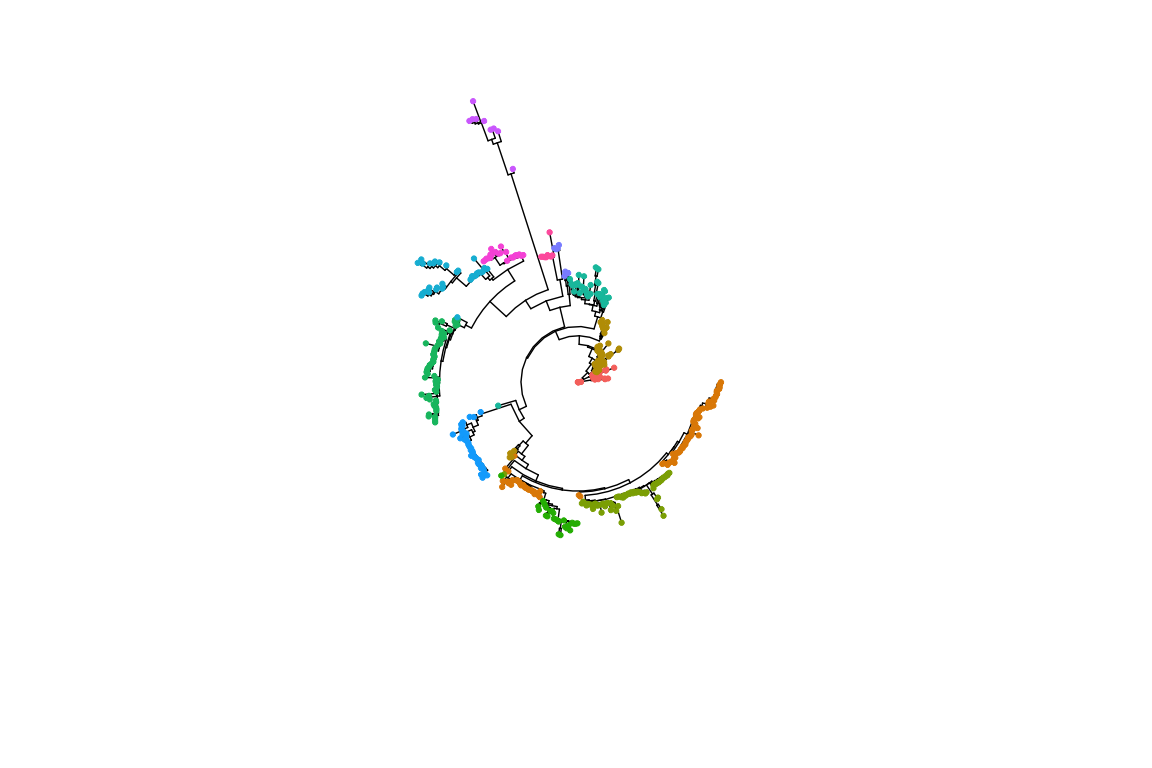
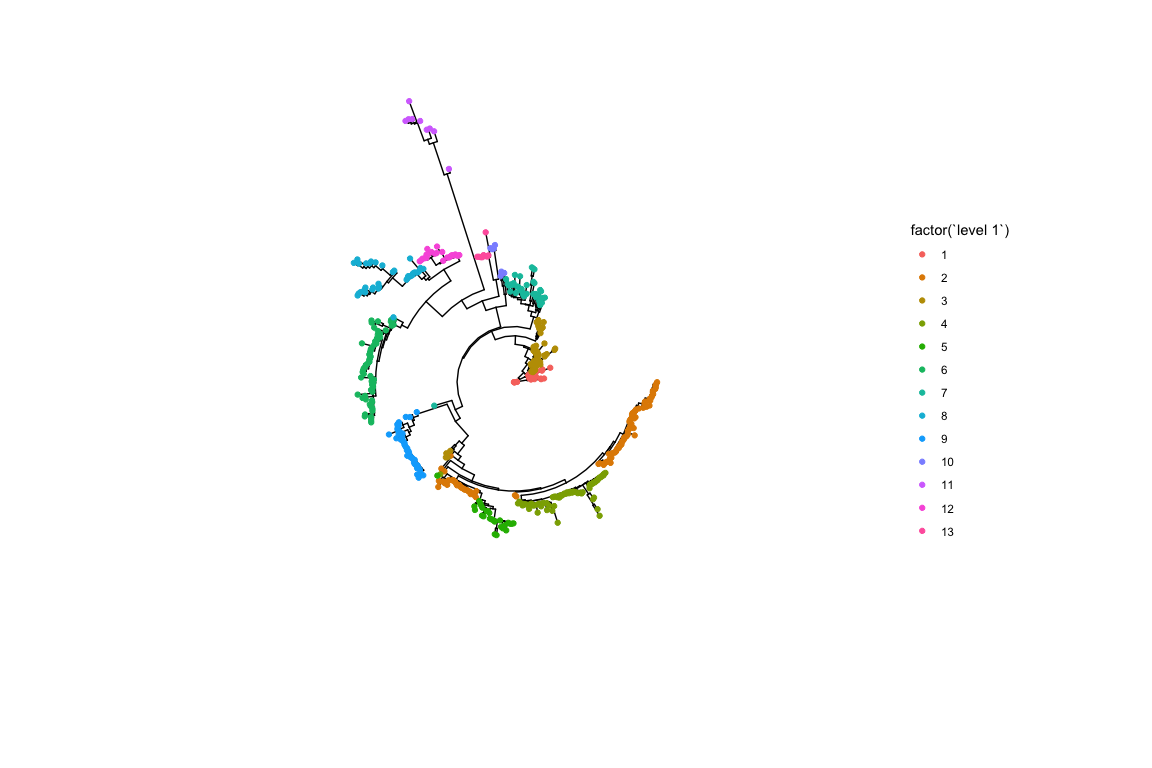
updates to fix issue created by changes to ggtree

diff --git a/README.md b/README.md
@@ -5,6 +5,8 @@
 rhierbaps
 =========
 
+We have recently developed a faster verion of the BAPs clustering method. It can be found [here](https://github.com/gtonkinhill/fastbaps).
+
 Installation
 ------------
 
@@ -127,7 +129,7 @@ We can also check how long hierBAPS takes to run on the test dataset of 515 samp
 ``` r
 system.time(hierBAPS(snp.matrix, max.depth = 2, n.pops = 20, quiet = TRUE))
 #>    user  system elapsed 
-#>  79.411  12.454  98.874
+#>  89.755  10.111 117.755
 ```
 
 Plotting results
@@ -183,12 +185,10 @@ hb.results$lml.list
 #> -50858.92 
 #> 
 #> $`Depth 1`
-#>          1          2          3          4          5          6 
-#> -2121.8602 -4012.3594 -4237.7634 -3095.1866 -1525.7361 -3180.7573 
-#>          7          8          9         10         11         12 
-#> -4015.5022 -2104.5238 -1736.0193  -779.7693  -810.5962  -688.5221 
-#>         13 
-#>  -163.3203
+#>          1          2          3          4          5          6          7 
+#> -2121.8602 -4012.3594 -4237.7634 -3095.1866 -1525.7361 -3180.7573 -4015.5022 
+#>          8          9         10         11         12         13 
+#> -2104.5238 -1736.0193  -779.7693  -810.5962  -688.5221  -163.3203
 ```
 
 Caculating assignment probabilities

diff --git a/cran-comments.md b/cran-comments.md
@@ -1,11 +1,21 @@
 ## Resubmission
 This is a an updated version. In this version I have:
 
+* Fixed an error cause by changes to the ggtree plotting package
+
+## Resubmission
+This is a an updated version. In this version I have:
+
+* Fixed a bug that caused the  algorithm to stop prematurely on large alignments
+
+## Resubmission
+This is a an updated version. In this version I have:
+
 * Fixed a minor bug that caused an error when a cluster contained only a single SNP
 * Added functionality to accept an ape DNAbin object
 
 ## Test environments
-* local OS X install, R 3.5.0
+* local OS X install, R 3.6.1
 * ubuntu 14.04 (on travis-ci), R 3.5.0
 * win-builder (devel and release)
 
